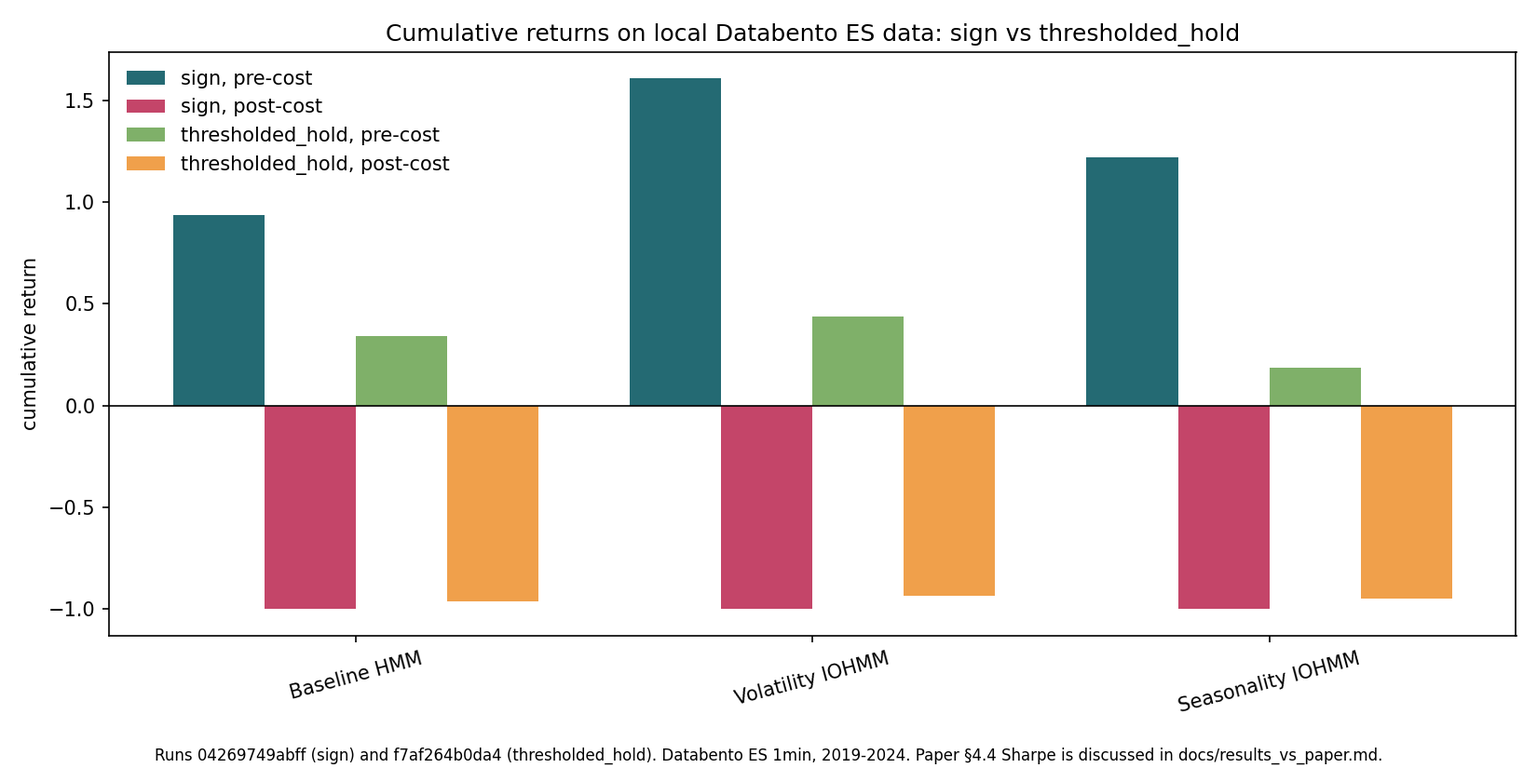
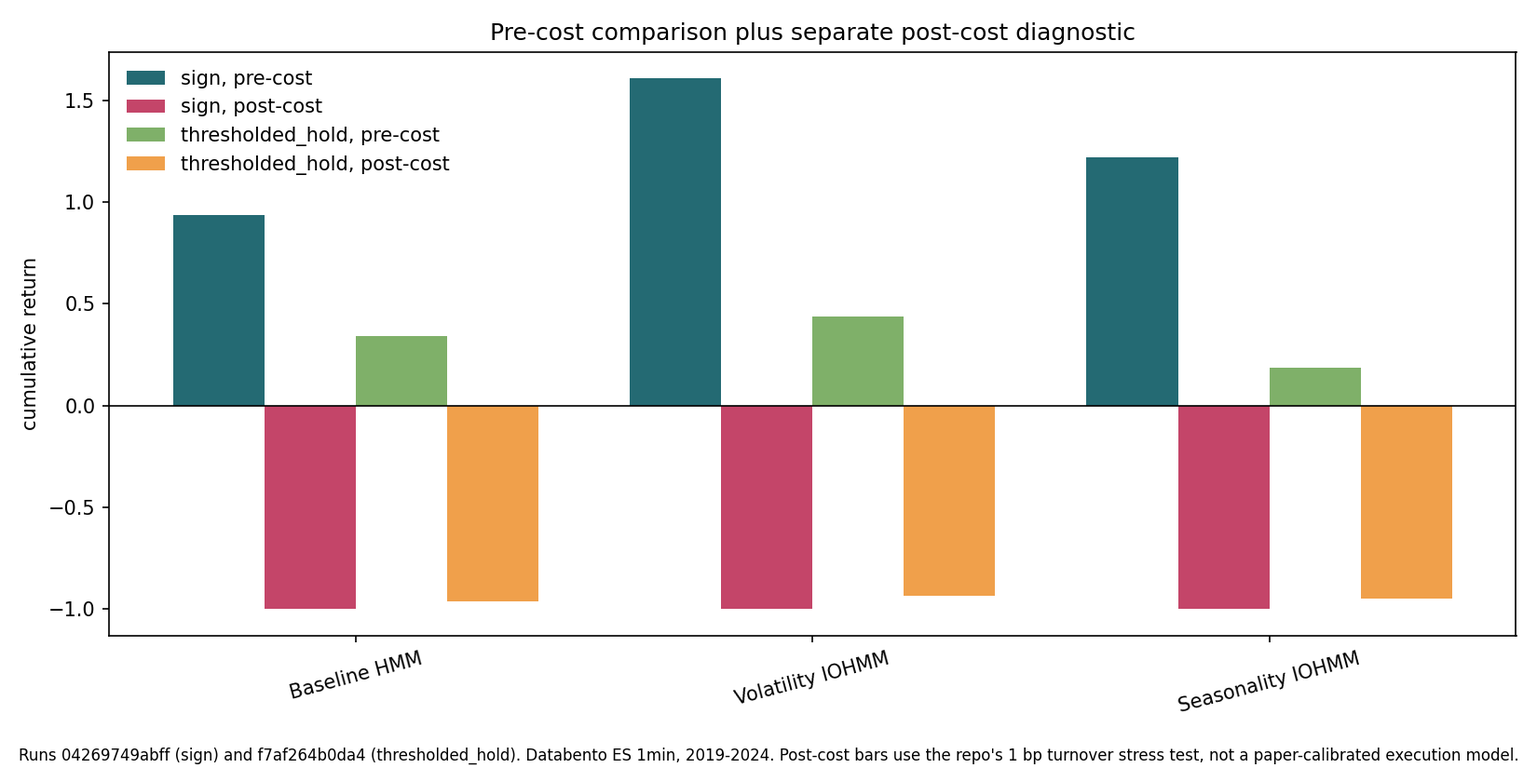
docs: isolate post-cost diagnostics

Changed region(s): [[0.0, 0.9697, 0.9891, 1.0], [0.2473, 0.0303, 0.8036, 0.0606]]

diff --git a/src/hft_hmm/evaluation/metrics.py b/src/hft_hmm/evaluation/metrics.py
@@ -16,6 +16,16 @@ Cost model
 - Under this convention, a flat-to-long rebalance costs ``c`` basis points and
   a long-to-short flip costs ``2c`` basis points.
 
+Interpretation
+--------------
+- Pre-cost metrics are the primary academic signal-quality metrics for the
+  paper comparison: they ask whether the model's predicted direction contains
+  useful information before execution assumptions are imposed.
+- Post-cost metrics are cost-sensitivity diagnostics under this repo's simple
+  linear turnover convention. They are not calibrated to the paper because the
+  paper does not specify spread, slippage, fee, per-side/round-trip, or fill
+  assumptions.
+
 Sharpe ratio is reported as sample mean divided by sample standard deviation.
 For fewer than two observations, or for zero sample variance, the function
 returns ``0.0`` as a stable evaluation-layer fallback.
@@ -71,7 +81,11 @@ def apply_turnover_cost(
     *,
     cost_bps_per_turnover: float,
 ) -> pd.Series:
-    """Subtract linear turnover costs from aligned strategy returns."""
+    """Subtract linear turnover costs from aligned strategy returns.
+
+    This is a transparent cost-sensitivity diagnostic, not a reproduction of
+    the paper's unspecified execution model.
+    """
     if not isinstance(strategy_returns, pd.Series):
         raise TypeError(
             "strategy_returns must be a pd.Series, " f"got {type(strategy_returns).__name__}."
@@ -247,7 +261,7 @@ def summarize_backtest(
     *,
     cost_bps_per_turnover: float = 0.0,
 ) -> pd.DataFrame:
-    """Return a compact pre-cost and post-cost summary table."""
+    """Return a compact pre-cost summary plus post-cost diagnostic table."""
     pre_cost_returns = align_signal_with_future_return(signal, realized_returns)
     turnover = signal_turnover(signal)
     post_cost_returns = apply_turnover_cost(

diff --git a/src/hft_hmm/experiments/standalone_predictor.py b/src/hft_hmm/experiments/standalone_predictor.py
@@ -5,10 +5,12 @@ evaluated in isolation before being folded into the IOHMM (Issue 16). The
 signal is sign(f(x_t)) where f(·) is a cubic spline fitted on the training
 window only. No HMM state is used.
 
-The walk-forward geometry, cost model, and metric definitions mirror the
-baseline HMM walk-forward (§2.3) so the results are directly comparable.
-This mirrors the paper's §4 structure: each predictor is evaluated standalone
-before being incorporated into the IOHMM.
+The walk-forward geometry and metric definitions mirror the baseline HMM
+walk-forward (§2.3) so pre-cost signal-quality results are directly
+comparable. Post-cost outputs use the repo's explicit turnover-cost convention
+as diagnostics only; they are not calibrated to the paper's unspecified
+execution assumptions. This mirrors the paper's §4 structure: each predictor is
+evaluated standalone before being incorporated into the IOHMM.
 
 Classification: evaluation layer.
 References: §4 side-information predictors (evaluation layer)
@@ -783,6 +785,17 @@ def _write_metrics(
         "reproducible": reproducible,
         "predictor": config.predictor,
         "cost_bps_per_turnover": float(config.cost_bps_per_turnover),
+        "metric_interpretation": {
+            "pre-cost": (
+                "primary academic signal-quality metric for paper comparison; "
+                "no execution costs applied"
+            ),
+            "post-cost": (
+                "cost-sensitivity diagnostic under the repo's linear turnover "
+                "cost convention; not calibrated to the paper's unspecified "
+                "execution model"
+            ),
+        },
         "n_windows": len(result.windows),
         "n_forecast_obs": int(result.signal.shape[0]),
         "summary": _summary_to_payload(result.summary),

diff --git a/src/hft_hmm/experiments/side_info_comparison.py b/src/hft_hmm/experiments/side_info_comparison.py
@@ -2,7 +2,7 @@
 
 Runs three walk-forward variants on the same return series with the same
 window geometry, K selection, cost model, and reporting units, so the
-variants are directly comparable:
+variants are directly comparable on pre-cost signal quality:
 
 1. ``baseline`` — Gaussian HMM walk-forward (delegates to
    :func:`hft_hmm.experiments.walk_forward.walk_forward` so the summary
@@ -18,6 +18,11 @@ The IOHMM-style conditioning is the engineering approximation from
 side-information value, and a separate K × K transition matrix is fitted per
 bucket on the training slice, with the per-window MLE matrix as the smoothing
 prior.
+
+Pre-cost Sharpe is the primary paper-comparison metric. Post-cost results are
+reported separately as turnover-cost diagnostics under the repo's fixed linear
+cost convention; they are not calibrated to the paper's unspecified execution
+model.
 
 References: §4 side-information / IOHMM evaluation (evaluation layer)
 """
@@ -890,6 +895,17 @@ def _write_summary(
         "reproducible": reproducible,
         "frequency": config.frequency,
         "cost_bps_per_turnover": float(config.cost_bps_per_turnover),
+        "metric_interpretation": {
+            "pre-cost": (
+                "primary academic signal-quality metric for paper comparison; "
+                "no execution costs applied"
+            ),
+            "post-cost": (
+                "cost-sensitivity diagnostic under the repo's linear turnover "
+                "cost convention; not calibrated to the paper's unspecified "
+                "execution model"
+            ),
+        },
         "variants": {
             name: _variant_payload(name, cmp_id, result.variants[name])
             for name in EXPECTED_VARIANTS

diff --git a/scripts/plot_results_vs_paper.py b/scripts/plot_results_vs_paper.py
@@ -2,8 +2,8 @@
 
 Reads ``runs/<run_id>/summary.json`` for the sign-policy and thresholded_hold
 passes and writes ``docs/figures/cumulative_return_vs_paper.png``: a grouped
-bar chart of pre-cost and post-cost cumulative returns per variant, faceted
-by signal policy.
+bar chart of pre-cost cumulative returns and separately labelled post-cost
+diagnostics per variant, faceted by signal policy.
 
 Usage:
     python scripts/plot_results_vs_paper.py <sign_run_id> <thresholded_run_id>
@@ -86,13 +86,14 @@ def main(argv: list[str] | None = None) -> int:
     ax.set_xticks(x)
     ax.set_xticklabels(labels, rotation=15)
     ax.set_ylabel("cumulative return")
-    ax.set_title("Cumulative returns on local Databento ES data: sign vs thresholded_hold")
+    ax.set_title("Pre-cost comparison plus separate post-cost diagnostic")
     ax.legend(loc="best", frameon=False)
     fig.text(
         0.5,
         0.01,
         f"Runs {args.sign_run_id} (sign) and {args.thresholded_run_id} (thresholded_hold). "
-        "Databento ES 1min, 2019-2024. Paper §4.4 Sharpe is discussed in docs/results_vs_paper.md.",
+        "Databento ES 1min, 2019-2024. Post-cost bars use the repo's 1 bp turnover "
+        "stress test, not a paper-calibrated execution model.",
         ha="center",
         fontsize=8,
     )

diff --git a/src/hft_hmm/strategy/signals.py b/src/hft_hmm/strategy/signals.py
@@ -19,13 +19,14 @@ Conventions
 
 Evaluation modes
 ----------------
-- **no-cost**: aggregate metrics are computed on ``signal[t-1] * returns[t]``
-  with no adjustment.
-- **cost-aware**: a turnover cost ``c`` (basis points per position change)
-  is subtracted when computing post-cost metrics. The cost model itself
-  lives in the Gate E metrics module (Issue 10); this module only emits
-  signals and does not apply costs, so its output is identical in both
-  modes.
+- **pre-cost**: aggregate metrics are computed on
+  ``signal[t-1] * returns[t]`` with no execution-cost adjustment. This is the
+  primary academic signal-quality mode used for paper comparison.
+- **post-cost diagnostic**: a turnover cost ``c`` (basis points per position
+  change) is subtracted after signal alignment. The cost model itself lives in
+  the Gate E metrics module (Issue 10); this module only emits signals and does
+  not apply costs. Post-cost results are useful stress tests, but are not a
+  paper-matching target because the paper leaves execution costs unspecified.
 
 References: §8 sign-based trading signal (evaluation layer)
 """

diff --git a/tests/test_repro.py b/tests/test_repro.py
@@ -331,6 +331,8 @@ def test_repro_cli_runs_example_config_end_to_end(tmp_path: Path) -> None:
     metrics = json.loads((printed / "metrics.json").read_text())
     assert metrics["reproducible"] is True
     assert metrics["n_windows"] >= 1
+    assert "primary academic" in metrics["metric_interpretation"]["pre-cost"]
+    assert "diagnostic" in metrics["metric_interpretation"]["post-cost"]
     assert np.isfinite(metrics["summary"]["post-cost"]["sharpe_ratio"])
 
 
@@ -360,6 +362,8 @@ def test_repro_cli_runs_standalone_predictor_config_end_to_end(tmp_path: Path) -
     assert metrics["predictor"] == "volatility_ratio"
     assert metrics["reproducible"] is True
     assert metrics["n_windows"] >= 1
+    assert "primary academic" in metrics["metric_interpretation"]["pre-cost"]
+    assert "diagnostic" in metrics["metric_interpretation"]["post-cost"]
     assert np.isfinite(metrics["summary"]["post-cost"]["sharpe_ratio"])
 
 

diff --git a/src/hft_hmm/experiments/runner.py b/src/hft_hmm/experiments/runner.py
@@ -151,6 +151,17 @@ def _write_metrics(
         "run_id": experiment_id,
         "reproducible": reproducible,
         "cost_bps_per_turnover": float(config.cost_bps_per_turnover),
+        "metric_interpretation": {
+            "pre-cost": (
+                "primary academic signal-quality metric for paper comparison; "
+                "no execution costs applied"
+            ),
+            "post-cost": (
+                "cost-sensitivity diagnostic under the repo's linear turnover "
+                "cost convention; not calibrated to the paper's unspecified "
+                "execution model"
+            ),
+        },
         "n_windows": len(result.windows),
         "n_forecast_obs": int(result.signal.shape[0]),
         "summary": _summary_to_payload(result.summary),

diff --git a/tests/test_side_info_comparison.py b/tests/test_side_info_comparison.py
@@ -195,6 +195,8 @@ def test_force_overwrites_existing_directory(tmp_path: Path) -> None:
 def test_summary_includes_required_metric_fields(comparison_artifacts) -> None:
     payload = json.loads((comparison_artifacts.directory / "summary.json").read_text())
     assert payload["comparison_id"] == comparison_artifacts.comparison_id
+    assert "primary academic" in payload["metric_interpretation"]["pre-cost"]
+    assert "diagnostic" in payload["metric_interpretation"]["post-cost"]
     for variant in EXPECTED_VARIANTS:
         entry = payload["variants"][variant]
         assert entry["variant"] == variant

diff --git a/src/hft_hmm/experiments/walk_forward.py b/src/hft_hmm/experiments/walk_forward.py
@@ -249,8 +249,9 @@ def walk_forward(
 
     The input ``returns`` must be a ``pd.Series`` with a tz-aware monotonic
     ``DatetimeIndex`` so that calendar-date grouping is unambiguous. The
-    ``cost_bps_per_turnover`` parameter only affects evaluation-layer metrics;
-    it does not change the signal path itself.
+    ``cost_bps_per_turnover`` parameter only affects post-cost diagnostic
+    metrics; it does not change the signal path itself or the pre-cost paper
+    comparison.
 
     References: §2.3 rolling-window overnight retraining scheme (evaluation layer)
     """

diff --git a/docs/results_vs_paper.md b/docs/results_vs_paper.md
@@ -21,22 +21,43 @@ Both share the Databento ES 1-minute parquet, walk-forward schedule
 and
 [`configs/example_es_databento_side_info_comparison_thresholded.yaml`](../configs/example_es_databento_side_info_comparison_thresholded.yaml).
 
-## Comparison Table
+## Pre-Cost Academic Comparison
 
-Sharpe columns use the paper's §4.4 convention: sum intraday strategy returns
-by UTC date, compute Sharpe on the daily return vector, then annualize by
-`sqrt(258)`. Sample window is 2019-01-28 00:01 UTC to 2024-12-25 23:59 UTC for
-every row.
+This is the headline table for the academic comparison. Sharpe uses the
+paper's §4.4 convention: sum intraday strategy returns by UTC date, compute
+Sharpe on the daily return vector, then annualize by `sqrt(258)`. Sample window
+is 2019-01-28 00:01 UTC to 2024-12-25 23:59 UTC for every row.
 
-| Model | Signal policy | Pre-cost Sharpe | Post-cost Sharpe | Hit rate | Cumulative return | Paper reference | Repo `run_id` |
-|---|---|---:|---:|---:|---:|---|---|
-| Baseline HMM | sign | 0.5298 | -8.8973 | 0.4079 | 0.9378 | §3 baseline HMM; §4.4 comparison context | `04269749abff` |
-| Volatility-ratio IOHMM | sign | 0.7577 | -7.4351 | 0.4080 | 1.6061 | §4.2 Predictor I; §4.4 IOHMM comparison | `04269749abff` |
-| Seasonality IOHMM | sign | 0.6285 | -7.6906 | 0.4080 | 1.2191 | §4.2 Predictor II; §4.4 IOHMM comparison | `04269749abff` |
-| Baseline HMM | thresholded_hold (1.7e-6) | 0.2264 | -2.3563 | 0.4073 | 0.3396 | §3 baseline HMM, turnover-aware variant | `f7af264b0da4` |
-| Volatility-ratio IOHMM | thresholded_hold (1.7e-6) | 0.2819 | -2.0129 | 0.4074 | 0.4385 | §4.2 Predictor I, turnover-aware variant | `f7af264b0da4` |
-| Seasonality IOHMM | thresholded_hold (1.7e-6) | 0.1316 | -2.1692 | 0.4071 | 0.1862 | §4.2 Predictor II, turnover-aware variant | `f7af264b0da4` |
-| Long-only benchmark | n/a | 0.6410 | 0.6410 | 0.4091 | 1.3064 | Evaluation benchmark, not a paper model | `04269749abff` |
+Post-cost results are intentionally excluded from this table because the paper
+does not specify enough execution-cost detail for a clean reproduction target.
+
+| Model | Signal policy | Pre-cost Sharpe | Hit rate | Pre-cost cumulative return | Paper reference | Repo `run_id` |
+|---|---|---:|---:|---:|---|---|
+| Baseline HMM | sign | 0.5298 | 0.4079 | 0.9378 | §3 baseline HMM; §4.4 comparison context | `04269749abff` |
+| Volatility-ratio IOHMM | sign | 0.7577 | 0.4080 | 1.6061 | §4.2 Predictor I; §4.4 IOHMM comparison | `04269749abff` |
+| Seasonality IOHMM | sign | 0.6285 | 0.4080 | 1.2191 | §4.2 Predictor II; §4.4 IOHMM comparison | `04269749abff` |
+| Baseline HMM | thresholded_hold (1.7e-6) | 0.2264 | 0.4073 | 0.3396 | §3 baseline HMM, turnover-aware variant | `f7af264b0da4` |
+| Volatility-ratio IOHMM | thresholded_hold (1.7e-6) | 0.2819 | 0.4074 | 0.4385 | §4.2 Predictor I, turnover-aware variant | `f7af264b0da4` |
+| Seasonality IOHMM | thresholded_hold (1.7e-6) | 0.1316 | 0.4071 | 0.1862 | §4.2 Predictor II, turnover-aware variant | `f7af264b0da4` |
+| Long-only benchmark | n/a | 0.6410 | 0.4091 | 1.3064 | Evaluation benchmark, not a paper model | `04269749abff` |
+
+## Post-Cost Diagnostic
+
+This table is a cost-sensitivity stress test under the repo's fixed
+`1.0` basis-point-per-turnover convention. It is deliberately isolated from
+the paper comparison above. The numbers answer a different question: whether
+the minute-level signal survives this explicit, conservative execution-cost
+assumption.
+
+| Model | Signal policy | Post-cost Sharpe | Post-cost cumulative return | Total turnover | Cost drag in cumulative return | Repo `run_id` |
+|---|---|---:|---:|---:|---:|---|
+| Baseline HMM | sign | -8.8973 | -1.0000 | 164,088 | 1.9378 | `04269749abff` |
+| Volatility-ratio IOHMM | sign | -7.4351 | -1.0000 | 138,020 | 2.6061 | `04269749abff` |
+| Seasonality IOHMM | sign | -7.6906 | -1.0000 | 134,940 | 2.2191 | `04269749abff` |
+| Baseline HMM | thresholded_hold (1.7e-6) | -2.3563 | -0.9626 | 35,844 | 1.3023 | `f7af264b0da4` |
+| Volatility-ratio IOHMM | thresholded_hold (1.7e-6) | -2.0129 | -0.9370 | 31,324 | 1.3756 | `f7af264b0da4` |
+| Seasonality IOHMM | thresholded_hold (1.7e-6) | -2.1692 | -0.9490 | 31,512 | 1.1352 | `f7af264b0da4` |
+| Long-only benchmark | n/a | 0.6410 | 1.3064 | 0 | 0.0000 | `04269749abff` |
 
 The comparison figure is
 [`docs/figures/cumulative_return_vs_paper.png`](figures/cumulative_return_vs_paper.png),
@@ -65,11 +86,12 @@ it under thresholded_hold, where the dead-zone discards a larger share of the
 seasonal signal than of the volatility one.
 
 The side-information variants do not dominate the long-only benchmark on every
-metric: under the sign policy, volatility-ratio beats long-only on pre-cost
-Sharpe (`0.7577` vs `0.6410`) and cumulative return (`1.6061` vs `1.3064`);
-under the thresholded_hold policy, no trading variant beats long-only on either
-metric. Long-only also dominates every trading variant on post-cost Sharpe
-because the benchmark has zero turnover.
+pre-cost metric: under the sign policy, volatility-ratio beats long-only on
+pre-cost Sharpe (`0.7577` vs `0.6410`) and cumulative return (`1.6061` vs
+`1.3064`); under the thresholded_hold policy, no trading variant beats
+long-only. The post-cost diagnostic is intentionally not used to rank paper
+replication quality because it is dominated by the repo's turnover-cost
+assumption.
 
 ## Cost Convention
 
@@ -81,7 +103,10 @@ than tune an undocumented cost number until the post-cost gap resembles the
 paper, the repo keeps a simple fixed convention that is easy to audit:
 flat-to-long costs 1 bp and long-to-short costs 2 bp. This makes post-cost
 results a conservative stress test and keeps the headline paper comparison on
-the pre-cost daily Sharpe, where the paper gives the most usable target.
+the pre-cost daily Sharpe, where the paper gives the most usable target. A
+negative post-cost result under this convention means "the minute-level signal
+is too expensive under this assumed cost"; it does not erase the pre-cost
+evidence that the model contains directional information.
 
 ## Threshold Calibration
 
@@ -115,10 +140,11 @@ about a half to two-thirds because most of the directional information sits in
 small-magnitude expected-return predictions that fall inside the dead-zone.
 Post-cost Sharpe improves by a factor of roughly 3 to 4 versus the sign policy
 but stays negative on this sample under the simple
-one-basis-point-per-turnover cost model. The paper does not specify a
-transaction-cost model beyond saying post-cost Sharpe falls by roughly 15%, so
-the post-cost shortfall is consistent with a more punitive cost assumption
-applied at the minute-bar signal level.
+one-basis-point-per-turnover cost model. This is why the post-cost table is
+presented as a separate diagnostic. The paper does not specify a transaction
+cost model beyond saying post-cost Sharpe falls by roughly 15%, so using the
+post-cost shortfall as a paper-replication failure would be over-interpreting an
+underspecified execution assumption.
 
 The main gaps are:
 

diff --git a/docs/paper_spec.md b/docs/paper_spec.md
@@ -23,7 +23,8 @@ components are excluded by the project scope in
 | Trading signal / transfer function | Algorithms 4-5 use `Signal_t = TF(yhat_t)`, but the paper does not define the transfer function. | [`strategy/signals.py`](../src/hft_hmm/strategy/signals.py) defaults to sign-based signals and also exposes a thresholded hold variant for turnover diagnostics. | engineering approximation | `TF(.)` is underspecified |
 | Signal / realized-return alignment | §8 evaluates signal returns against subsequent realized returns. | [`align_signal_with_future_return`](../src/hft_hmm/strategy/signals.py) applies `signal[t-1] * return[t]` before metrics are computed. | paper-faithful | Off-by-one bugs are high impact |
 | Rebalancing cadence | §7 evaluates a synchronous 1-minute grid and computes lagged-signal strategy returns every minute. | Baseline and IOHMM-style runners update predictions and signals on every minute bar, without bucket-change gating. | paper-faithful | Low |
-| Cost model | The paper says post-cost Sharpe falls by about 15%, but does not specify bps, per-side/round-trip convention, or slippage model. | [`evaluation/metrics.py`](../src/hft_hmm/evaluation/metrics.py) subtracts a documented linear basis-points-per-turnover cost and reports pre- and post-cost summaries. | engineering approximation | Cost model is underspecified |
+| Pre-cost vs post-cost interpretation | §4.4 emphasizes model comparison through Sharpe; the usable paper target is the pre-cost signal result. | Pre-cost daily Sharpe is the primary academic comparison in [`docs/results_vs_paper.md`](results_vs_paper.md). Post-cost Sharpe is isolated as a cost-sensitivity diagnostic, not a paper-matching target. | evaluation layer | Readers may over-interpret post-cost |
+| Cost model | The paper says post-cost Sharpe falls by about 15%, but does not specify bps, per-side/round-trip convention, spread, slippage, fees, or fill model. | [`evaluation/metrics.py`](../src/hft_hmm/evaluation/metrics.py) subtracts a transparent linear basis-points-per-turnover cost. The default `1.0` bp per turnover is a conservative stress-test convention at 1-minute cadence. | engineering approximation | Cost model is underspecified |
 | Sharpe reporting convention | §4.4 and §7 aggregate intraday strategy returns to daily returns, then report `sqrt(258) * mean_daily / std_daily`. | Results-vs-paper uses daily aggregated annualized Sharpe from [`evaluation/metrics.py`](../src/hft_hmm/evaluation/metrics.py), while raw artifact summaries also retain per-bar Sharpe. | paper-faithful | Must avoid minute-level annualization |
 | `K` selection | §4 compares cross-validation, AIC/BIC, and MCMC bridge sampling. | [`selection/model_selection.py`](../src/hft_hmm/selection/model_selection.py) implements AIC/BIC only and documents the parameter count formula. | engineering approximation | Missing CV/bridge sampling |
 | MCMC bridge sampling | The paper uses bridge sampling for marginal likelihood comparisons. | Bridge sampling is excluded by [`IMPLEMENTATION_PLAN.md §2.5`](../IMPLEMENTATION_PLAN.md#25-scope-exclusions). | excluded by scope | Must be disclosed |
@@ -38,9 +39,9 @@ components are excluded by the project scope in
 | Quantile-boundary follow-up | Issue 42 tracks quantile boundary mode for bucketed IOHMM transitions. | Quantile-derived bucket boundaries are future work only and are not part of the Issue 23 documentation deliverable. | evaluation layer | Follow-up remains open |
 | Asynchronous IOHMM | The paper sketches an asynchronous mixed-frequency variant. | Asynchronous IOHMM is excluded by [`IMPLEMENTATION_PLAN.md §2.5`](../IMPLEMENTATION_PLAN.md#25-scope-exclusions). | excluded by scope | Must be disclosed |
 | Multi-security evaluation | The paper context includes broader intraday momentum experiments. | The repo is single-security by design; portfolio construction is excluded by [`IMPLEMENTATION_PLAN.md §2.5`](../IMPLEMENTATION_PLAN.md#25-scope-exclusions). | excluded by scope | Scope limitation |
-| Production execution | Real trading would require venue, latency, and order-book modeling. | Production execution concerns are excluded; the repo uses simple turnover costs only. | excluded by scope | Scope limitation |
+| Production execution | Real trading would require venue, latency, and order-book modeling. | Production execution concerns are excluded; the repo uses simple turnover costs only. Post-cost diagnostics should not be read as production PnL estimates. | excluded by scope | Scope limitation |
 | Figure generation | Gate I requires report-ready figures from scripts, not notebooks. | Existing selection plots live in [`selection/plots.py`](../src/hft_hmm/selection/plots.py); Issue 18 tracks a broader visualization package. | evaluation-layer | Incomplete until Issue 18 |
-| Paper comparison results | Gate J requires an honest results-vs-paper table and gap analysis. | Issue 24 will cite reproducible run artifacts and categorize gaps as data, model scope, approximation, or numerical variation. | evaluation-layer | Future artifact dependency |
+| Paper comparison results | Gate J requires an honest results-vs-paper table and gap analysis. | [`docs/results_vs_paper.md`](results_vs_paper.md) cites reproducible run artifacts, uses pre-cost daily Sharpe for the paper comparison, and isolates post-cost results as cost diagnostics. | evaluation-layer | Must preserve metric separation |
 
 Any later scope change should add or update a row here first, then update the
 module docstring or issue that implements the change.

diff --git a/README.md b/README.md
@@ -13,6 +13,26 @@ This repository is a course project implementation inspired by:
 
 The intent is a clean, reviewable, academically defensible replication pipeline, not a production trading system and not a claim of exact numerical reproduction of the paper.
 
+## How To Read Performance Metrics
+
+The project separates model-quality metrics from execution-cost diagnostics:
+
+- **Pre-cost results are the main academic comparison.** They measure whether
+  the HMM signal has predictive information before trading-cost assumptions are
+  imposed. This is the cleanest comparison to the paper because the paper
+  emphasizes pre-cost Sharpe and does not fully specify its execution model.
+- **Post-cost results are diagnostic stress tests.** They subtract the repo's
+  simple `cost_bps_per_turnover` convention after signal alignment. The default
+  `1.0` basis point per unit turnover is deliberately transparent and
+  conservative at 1-minute cadence; it is not tuned to match the paper.
+- **Large pre/post gaps usually mean high turnover, not necessarily no signal.**
+  For the results-vs-paper branch, the sign policy has the best pre-cost
+  Sharpe, while `thresholded_hold` is reported separately to show how much
+  turnover filtering helps under the conservative cost convention.
+
+See [`docs/results_vs_paper.md`](docs/results_vs_paper.md) for the isolated
+pre-cost comparison and the separate post-cost diagnostic table.
+
 ## Current Status
 
 The repository currently contains:
@@ -22,13 +42,14 @@ The repository currently contains:
 - model-selection helpers (AIC/BIC) and log-space forward filtering
 - sign-based signal generation plus backtest metrics with turnover-cost accounting
 - a walk-forward experiment runner with deterministic YAML configs, run hashing, and saved artifacts
+- results-vs-paper artifacts that keep the pre-cost academic comparison separate from post-cost cost-sensitivity diagnostics
 - tracked ES 1-minute CSV fixtures for integration tests and reproducibility checks
 - repository automation for tests, linting, formatting, and typing
 
-The core single-asset HMM replication pipeline is implemented through the evaluation layer. The main remaining scope is:
-- side-information features such as volatility ratio and intraday seasonality
-- spline-based predictor fitting and IOHMM-style transition conditioning approximations
-- figure-generation and presentation-oriented project artifacts
+The core single-asset HMM replication pipeline is implemented through the
+evaluation layer, including side-information features, spline-based predictor
+fitting, IOHMM-style transition conditioning approximations, and
+presentation-oriented results artifacts.
 
 ## Repository Contents
 
